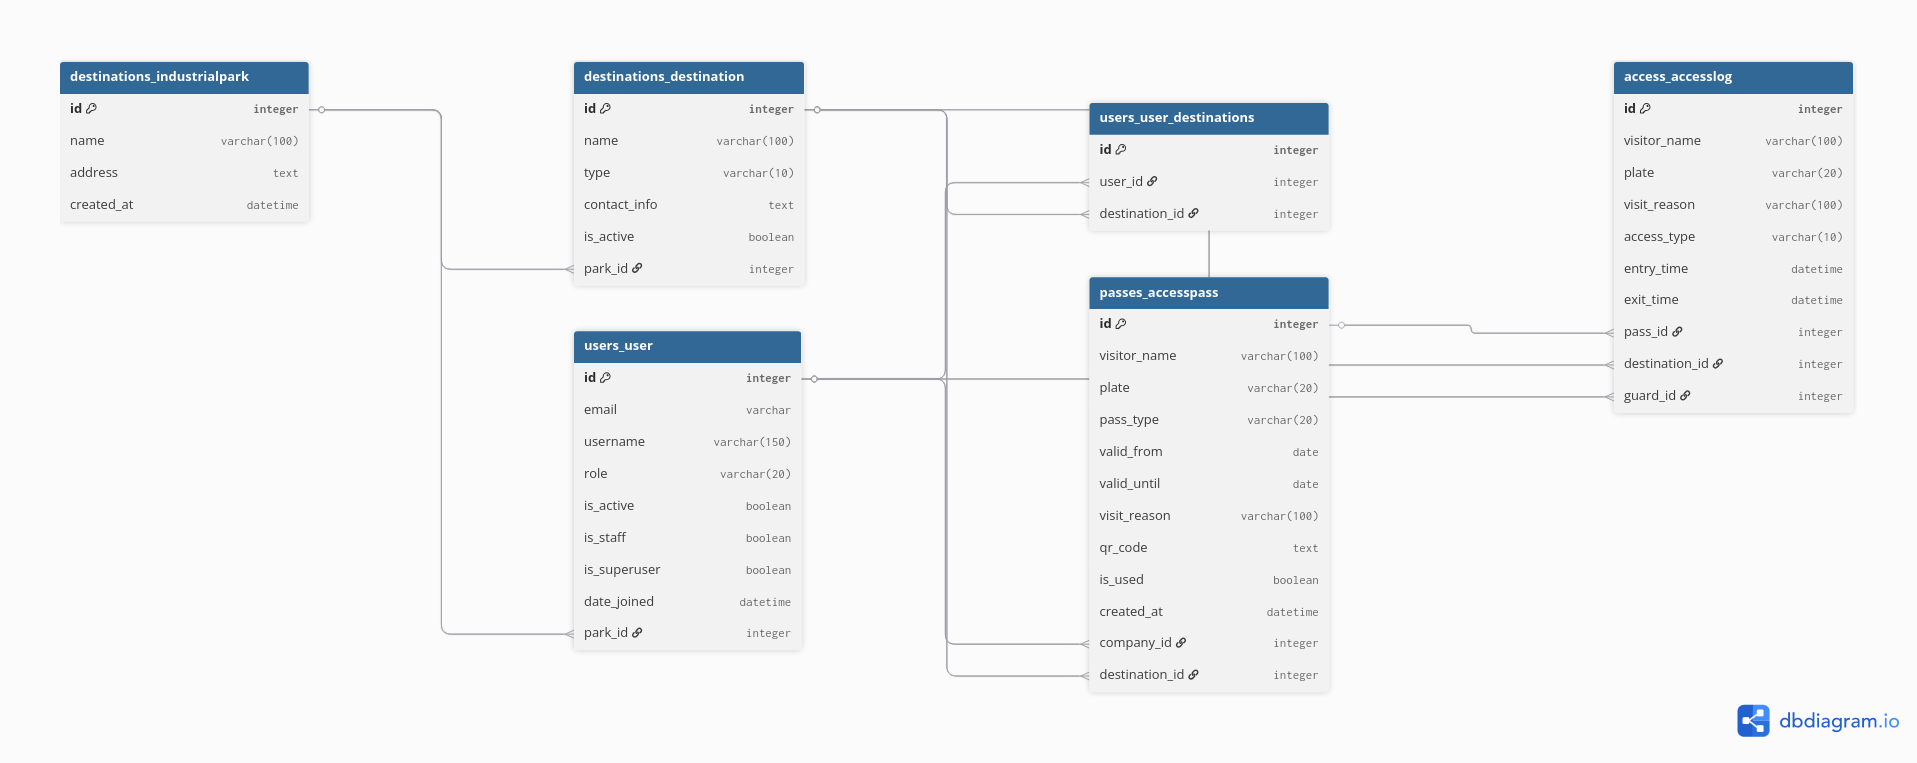
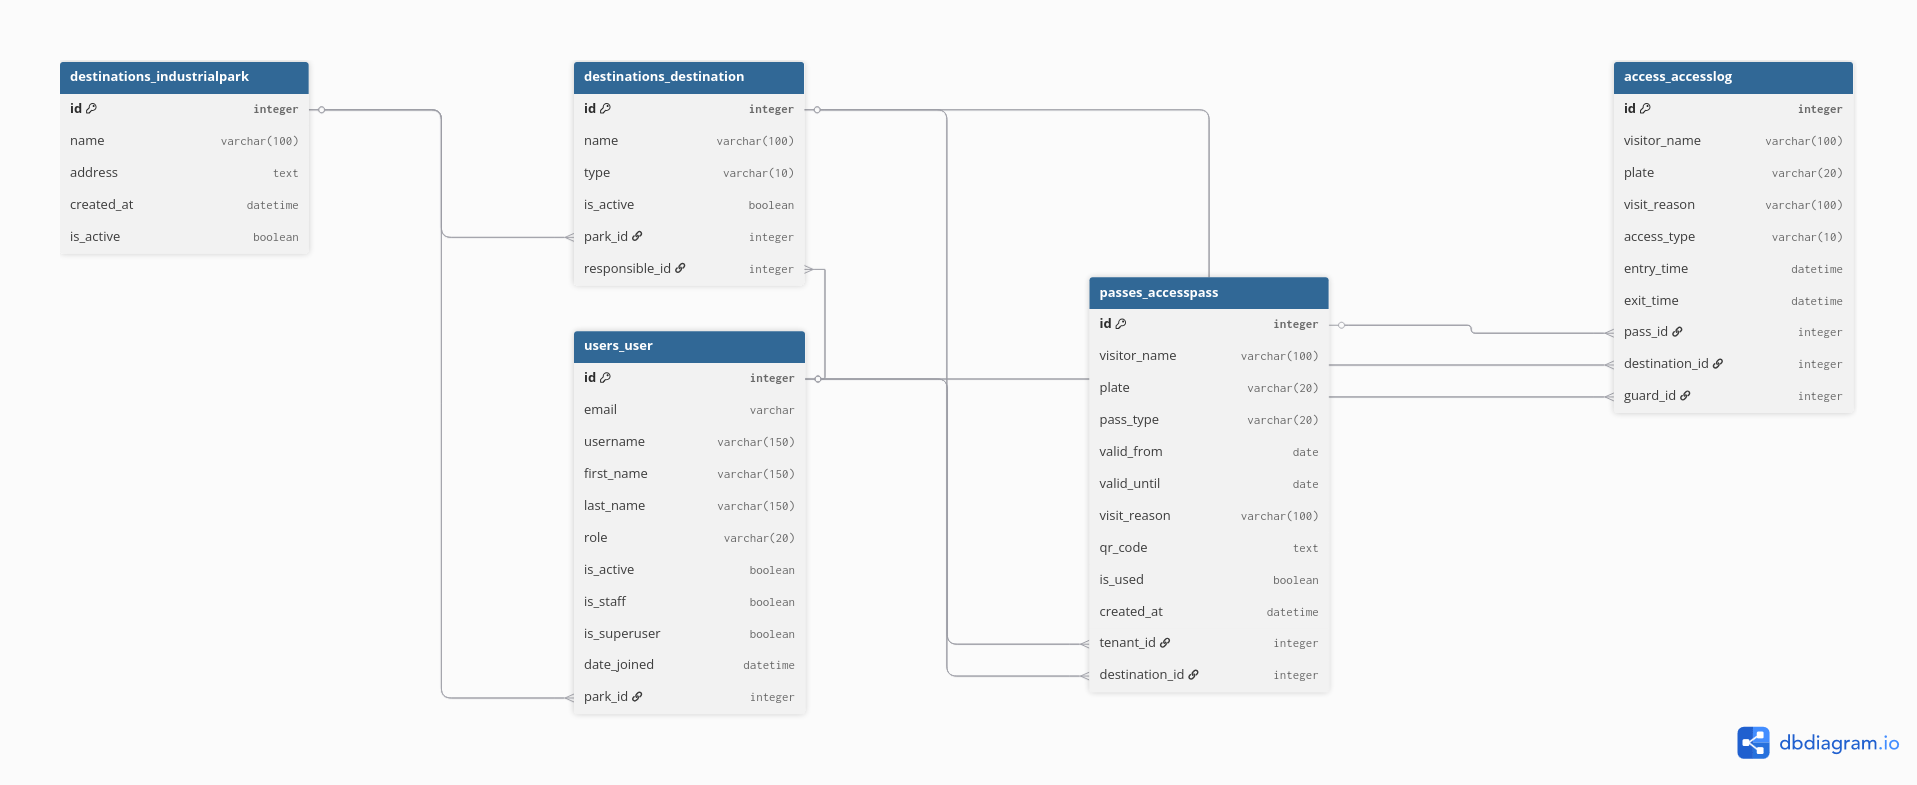
feat(destinations): update database schema with new fields and relationships

diff --git a/docs/db_schema.md b/docs/db_schema.md
@@ -7,38 +7,30 @@ Table destinations_industrialpark {
   name        varchar(100)
   address     text        [note: 'blank=True']
   created_at  datetime
+  is_active   boolean     [default: true]
 }
 
 Table destinations_destination {
-  id           integer     [pk, increment]
-  name         varchar(100)
-  type         varchar(10) [note: '"company" | "area"']
-  contact_info text        [null]
-  is_active    boolean     [default: true]
-  park_id      integer     [ref: > destinations_industrialpark.id, note: 'SET_NULL', null]
+  id              integer     [pk, increment]
+  name            varchar(100)
+  type            varchar(10) [note: '"company" | "area"']
+  is_active       boolean     [default: true]
+  park_id         integer     [ref: > destinations_industrialpark.id, note: 'CASCADE']
+  responsible_id  integer     [ref: > users_user.id, note: 'SET_NULL', null]
 }
 
 Table users_user {
   id           integer     [pk, increment]
   email        varchar     [unique]
-  username     varchar(150)[note: 'autogenerado desde email']
-  role         varchar(20) [note: '"admin" | "guard" | "company"']
+  username     varchar(150)
+  first_name   varchar(150)[note: 'blank=True']
+  last_name    varchar(150)[note: 'blank=True']
+  role         varchar(20) [note: '"admin" | "guard" | "tenant"']
   is_active    boolean     [default: true]
   is_staff     boolean     [default: false]
   is_superuser boolean     [default: false]
   date_joined  datetime
   park_id      integer     [ref: > destinations_industrialpark.id, note: 'SET_NULL', null]
-}
-
-// Tabla intermedia del M2M User.destinations
-Table users_user_destinations {
-  id             integer [pk, increment]
-  user_id        integer [ref: > users_user.id]
-  destination_id integer [ref: > destinations_destination.id]
-
-  indexes {
-    (user_id, destination_id) [unique]
-  }
 }
 
 Table passes_accesspass {
@@ -53,13 +45,11 @@ Table passes_accesspass {
   is_used        boolean     [default: false]
   created_at     datetime
 
-  // FK al usuario company que generó el pase
-  company_id     integer     [ref: > users_user.id, note: 'SET_NULL', null]
+  // FK al usuario tenant que generó el pase
+  tenant_id      integer     [ref: > users_user.id, note: 'SET_NULL', null]
 
   // FK al destino específico elegido al generar el pase
-  // (debe ser uno de los destinos del M2M del company)
   destination_id integer     [ref: > destinations_destination.id, note: 'SET_NULL', null]
-
 }
 
 Table access_accesslog {
